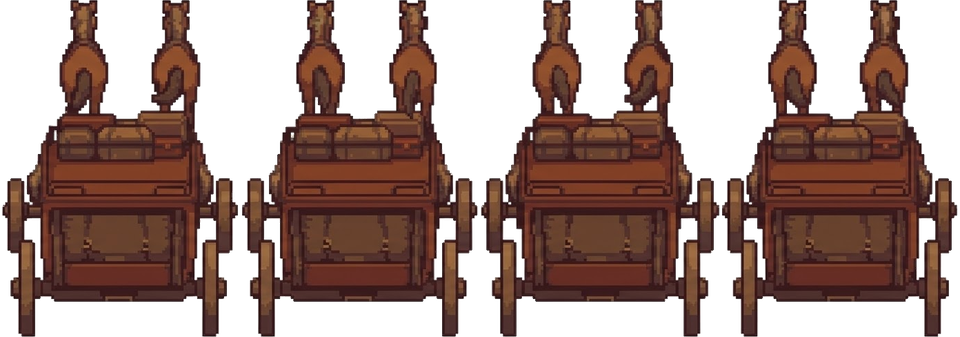
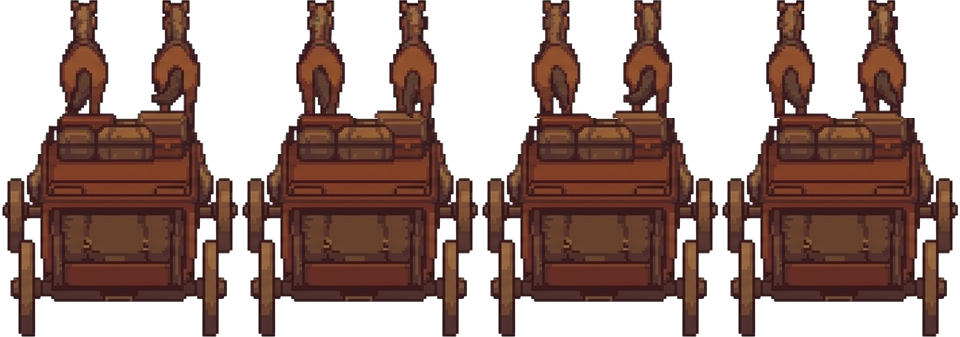
Diligence : caisse fixe, seuls les chevaux trottent (v0.1.120)
Claude-Session: https://claude.ai/code/session_01AW7DcoHhsYwH5GDQidmN3T

diff --git a/src/render/renderer.js b/src/render/renderer.js
@@ -230,7 +230,7 @@ function fountainWater(c, cx, by, fw, now) {
 }
 function drawCoach(c, wx, wy, now, moving = true, dir = 'droite') {   // 18/11 (soir) : diligence « pixel moderne » (src/render/props.js) : caisse, cocher, chevaux au trot, roues qui tournent
   const X = Math.round(wx * 16), Y = Math.round(wy * 16), fr = (now / 110 | 0) % 4, st = (now / 70 | 0) % 8;
-  if (drawCoachDecor(c, dir, X + (dir === 'droite' ? 18 : dir === 'gauche' ? -18 : 8), Y + 11 + (moving ? (now / 160 | 0) % 2 : 0), now, moving)) return;   // 21/11 : 4 directions, trot en 4 images   // 21/11 : plus d'ombre ; chevaux animés
+  if (drawCoachDecor(c, dir, X + (dir === 'droite' ? 18 : dir === 'gauche' ? -18 : 8), Y + 11, now, moving)) return;   // 21/11 : 4 directions (les images de trot font déjà le cahot), trot en 4 images   // 21/11 : plus d'ombre ; chevaux animés
   c.fillStyle = 'rgba(30,15,5,.3)'; c.beginPath(); c.ellipse(X + 12, Y + 9, 52, 5, 0, 0, 7); c.fill();   // lot 32 : diligence de la planche fournie (petit cahot, roues qui tournent)
   const h1 = horse('#5a3a22', fr), h2 = horse('#8a5a32', (fr + 2) % 4), body = coachBody(), wb = coachWheel(10, st), wf = coachWheel(8, st);
   if (h1) c.drawImage(h1, X + 40, Y - 21);

diff --git a/src/render/decors.js b/src/render/decors.js
@@ -44,8 +44,8 @@ export function drawDecorRot(c, n, cx, cy, w, ang) {
 }
 // 21/11 : diligence d'après les 3 bandes Gemini (tools/diligence-v2.py) : 4 images de trot par vue (profil gauche, face, dos),
 // profil droit = miroir ; de profil, les roues tournent à part (retirées des images, dessinées par-dessus).
-export const COACH_CELL = 485;                                  // largeur d'une case du profil dans l'image d'origine
-export const COACH_WHEELS = [[275, 212, 40], [423, 202, 50]];   // profil gauche : centre x, centre y, rayon (dans une case)
+export const COACH_CELL = 434;                                  // largeur d'une case du profil dans l'image d'origine
+export const COACH_WHEELS = [[224, 212, 40], [372, 202, 50]];   // profil gauche : centre x, centre y, rayon (dans une case)
 export const COACH_VIEW = { droite: 'diligence_gauche', gauche: 'diligence_gauche', face: 'diligence_face', dos: 'diligence_dos' };
 export const COACH_W = { droite: 126, gauche: 126, face: 60, dos: 60 };
 export function drawCoachDecor(c, dir, cx, by, now, moving = true) {

diff --git a/src/version.js b/src/version.js
@@ -1,4 +1,4 @@
 // Version du jeu (semver horodaté). Fichier écrit par `node tools/version.mjs` : ne pas modifier à la main.
 // Patch = automatique à chaque publication ; mineure et majeure = seulement quand l'utilisateur le demande.
-export const VERSION = { major: 0, minor: 1, patch: 119, date: '2026-11-21T16:01' };
+export const VERSION = { major: 0, minor: 1, patch: 120, date: '2026-11-21T16:28' };
 export const versionLabel = (v = VERSION) => `v${v.major}.${v.minor}.${v.patch} · ${v.date.slice(8, 10)}/${v.date.slice(5, 7)}/${v.date.slice(0, 4)} ${v.date.slice(11, 16)}`;

diff --git a/tools/diligence-v2.py b/tools/diligence-v2.py
@@ -6,9 +6,9 @@ from PIL import Image
 from scipy import ndimage
 ROOT = os.path.dirname(os.path.dirname(os.path.abspath(__file__)))
 SRC = os.path.join(ROOT, 'docs/sprites/decors/dilig-v2')
-# Images gardées dans l'ordre du cycle (profil : l'image 1 montre deux chevaux séparés, les autres un seul → 2, 3, 4, 3).
+# Images gardées dans l'ordre du cycle (profil : Gemini montre tantôt un, tantôt deux chevaux ; les images 2 et 4 en montrent un seul → 2, 4, 2, 4).
 # Face : l'image 4 montre les chevaux tête levée (les autres de dos) → 1, 2, 3, 2.
-ORDER = { 'profil': [1, 2, 3, 2], 'face': [0, 1, 2, 1], 'dos': [0, 1, 2, 3] }
+ORDER = { 'profil': [1, 3, 1, 3], 'face': [0, 1, 2, 1], 'dos': [0, 1, 2, 3] }
 OUT = { 'profil': 'diligence_gauche', 'face': 'diligence_face', 'dos': 'diligence_dos' }
 MAXW = 4 * 126   # 4 × la largeur d'affichage du profil au plus
 
@@ -51,9 +51,29 @@ for v, out in OUT.items():
     if k < 1: im = im.resize((round(im.width * k / 4) * 4, round(im.height * k)), Image.LANCZOS)
     im.save(os.path.join(ROOT, 'assets/decors', out + '.png')); print(out, im.size)
 
-# Profil : les roues tournent à part dans le jeu. Centre x, centre y, rayon dans une case (485 px de large, 252 de haut).
-WHEELS = [(275, 212, 40), (423, 202, 50)]
-p = os.path.join(ROOT, 'assets/decors/diligence_gauche.png'); sh = np.array(Image.open(p).convert('RGBA')); sh = np.pad(sh, ((0, 2), (0, 0), (0, 0))); CW = sh.shape[1] // 4
+# Gemini redessine toute la diligence à chaque image (caisse décalée de quelques pixels → saccades). On garde la caisse
+# de l'image 1 pour les 4 images ; seuls les chevaux viennent de chaque image, recalés sur la caisse (meilleur décalage).
+HORSES = { 'diligence_gauche': lambda yy, xx: xx < 240, 'diligence_face': lambda yy, xx: yy >= 155, 'diligence_dos': lambda yy, xx: yy < 118 }
+for out, zone in HORSES.items():
+    p = os.path.join(ROOT, 'assets/decors', out + '.png'); a = np.array(Image.open(p).convert('RGBA')); CW = a.shape[1] // 4
+    f = [a[:, i * CW:(i + 1) * CW].copy() for i in range(4)]
+    yy, xx = np.mgrid[:a.shape[0], :CW]; hz = zone(yy, xx); ref = f[0].astype(int)
+    for i in range(1, 4):
+        best = None
+        for dy in range(-8, 9):
+            for dx in range(-8, 9):
+                s = np.roll(f[i], (dy, dx), (0, 1)).astype(int)
+                e = (np.abs(s - ref).sum(2) * ~hz).sum()
+                if best is None or e < best[0]: best = (e, dy, dx)
+        s = np.roll(f[i], best[1:], (0, 1))
+        f[i] = np.where(hz[..., None], s, f[0])
+        print(out, i, 'recalée de', best[1:])
+    Image.fromarray(np.concatenate(f, 1)).save(p)
+
+# Profil : les roues tournent à part dans le jeu (centre x, centre y, rayon dans une case ; à recopier dans COACH_WHEELS de decors.js).
+p = os.path.join(ROOT, 'assets/decors/diligence_gauche.png'); sh = np.array(Image.open(p).convert('RGBA')); CW = sh.shape[1] // 4; H0 = sh.shape[0]; sh = np.pad(sh, ((0, 2), (0, 0), (0, 0)))
+# roues repérées depuis le bord droit et le bas de la case (la caisse est calée à droite, posée en bas)
+WHEELS = [(CW - 210, H0 - 40, 40), (CW - 62, H0 - 50, 50)]
 # fenêtres : trous fermés de la caisse (hors roues) remplis en brun sombre
 holes = ndimage.binary_fill_holes(sh[..., 3] > 0) & (sh[..., 3] == 0)
 lab, n = ndimage.label(holes)
@@ -76,4 +96,4 @@ for i in range(4):
     for cx, cy, r in WHEELS:
         z = ((xx - i * CW - cx) ** 2 + (yy - cy) ** 2 <= (r + 3) ** 2) & (yy > cy - r * .35) & ~horse
         sh[z] = 0
-Image.fromarray(sh).save(p); print('roues', WHEELS)
+Image.fromarray(sh).save(p); print('roues', WHEELS, 'case', CW)

diff --git a/docs/CARNET.md b/docs/CARNET.md
@@ -170,3 +170,4 @@ Fait : sol de la ferme (v0.1.5) ; **7a** palette Far West et sols (centre-ville 
 - 21/11 : v0.1.117 — Simplet d'après sa planche Gemini (docs/sprites/simplet-v2.jpg, `python3 -I tools/simplet-sheet.py`) : de dos, la pioche manquait dans 2 images (haut du corps repris des 2 autres) ; profil retourné. Méthode : une demande pour toutes les poses, Claude corrige.
 - 21/11 : v0.1.118 — Myst d'après sa planche Gemini (myst-v3, outil commun `tools/planches-v3.py` : profil retourné, franges blanches du JPEG retirées) ; route prolongée au-delà du bord à chaque sortie quand la zone est plus petite que l'écran ; plus d'arbre à moins de 3 cases d'une sortie (zones et ferme) ; cadres du haut translucides quand le héros passe dessous.
 - 21/11 : v0.1.119 — Jade d'après sa planche Gemini (jade-v3, dans `PL` de planches-v3, H 32, profil déjà vers la gauche) ; 1er essai Gemini refusé (copie de l'ancienne planche jointe : ne plus joindre l'ancienne image du personnage). **Diligence refaite dans les 4 directions** (`python3 -I tools/diligence-v2.py`, bandes docs/sprites/decors/dilig-v2/) : 4 images de trot par vue, profil droit = miroir du gauche, roues du profil qui tournent à part ; direction prise du déplacement (`R._dir`). Corrections : profil image 1 (deux chevaux séparés) remplacée → cycle 2-3-4-3 ; face image 4 (têtes levées) → 1-2-3-2 ; angle de vue à imposer à Gemini (« caméra qui regarde d'en haut, toit large »). L'ancienne planche diligence n'est plus traitée par decors-from-planches.py.
+- 21/11 : v0.1.120 — saccades des chevaux : Gemini redessinait toute la diligence à chaque image (caisse décalée de 1 à 4 px) ; la caisse de l'image 1 sert maintenant aux 4 images, seuls les chevaux changent (recalés). Profil : Gemini montre tantôt un, tantôt deux chevaux → images 2 et 4 seulement. Plus de cahot ajouté par le code. ⏳ Lenteurs signalées « au niveau de l'étal » : non reproduites (ordinateur, 60 images/s, rien de lourd dans le dessin de l'étal) ; à préciser par l'utilisateur.

diff --git a/docs/VERSIONS.md b/docs/VERSIONS.md
@@ -2,6 +2,7 @@
 
 Semver horodaté (heure de Paris). Patch automatique à chaque publication ; mineure et majeure sur décision de l'utilisateur.
 
+- **0.1.120** — 2026-11-21 16:28 — Diligence : caisse fixe d'une image à l'autre, seuls les chevaux trottent (plus de saccades)
 - **0.1.119** — 2026-11-21 16:01 — Jade d'après sa planche Gemini, diligence refaite dans les 4 directions (chevaux au trot, roues qui tournent)
 - **0.1.118** — 2026-11-21 11:25 — Myst refait, routes prolongées aux sorties, cadres du haut translucides
 - **0.1.117** — 2026-11-21 11:15 — Simplet d'après sa planche
